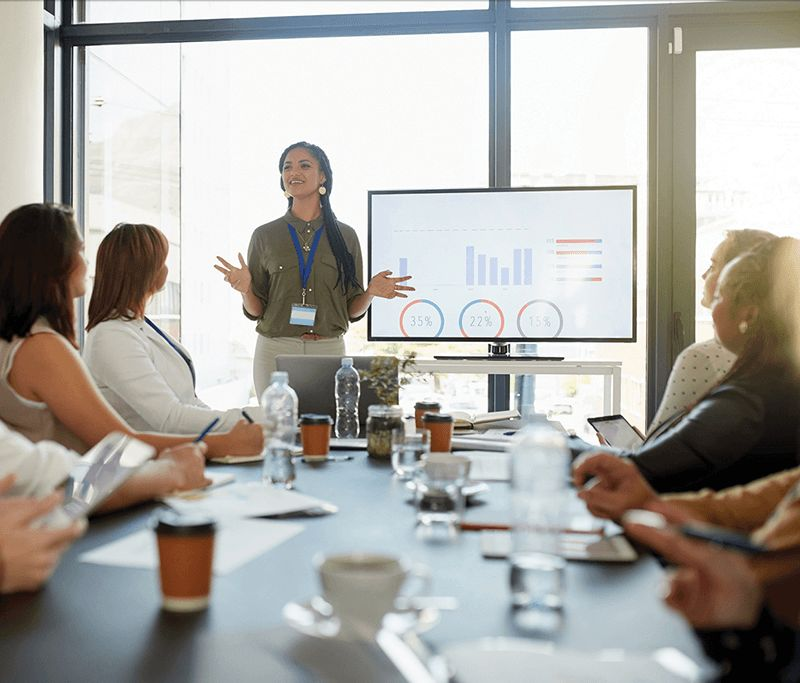
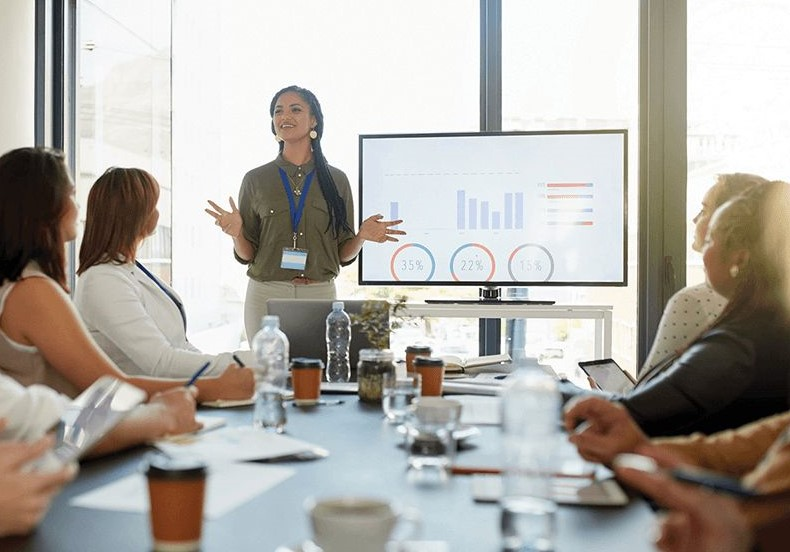
updated story board, cropped images, styling

diff --git a/public/scripts/storyBoard.js b/public/scripts/storyBoard.js
@@ -17,7 +17,7 @@ const levels = {
       ["level4-2-background1.jpg", "placeholder", "placeholder"],
     ],
     [
-      ["level5-1-background1.jpg", "placeholder", "placeholder"],
+      ["level5-1-background11.jpg", "placeholder", "placeholder"],
       ["level5-2-background1.jpg", "placeholder", "placeholder"],
     ],
   ],
@@ -25,8 +25,8 @@ const levels = {
   descriptions: [
     [
       "Being in an essential job, you must go to work today.",
-      "Who’s that? It’s grandma! Hello! she calls out to you. What do you do?",
-      "It’s the morning rush and there’s suddenly tons of people.",
+      "Who’s that? It’s grandma! \"Hello!\" she calls out to you. What do you do?",
+      "It’s the morning rush and there are suddenly tons of people.",
     ],
     [
       "You’ve made it to work. Now you have to gracefully and safely navigate your way to your desk.", 
@@ -34,19 +34,19 @@ const levels = {
       "The hallway is crowded with fellow coworkers all chatting about their weekend. They call you over to talk with them."
     ],
     [
-      "You’ve made it to your desk at work. You now must go about your daily work activities.", 
-      "It’s time for lunch. You realize you forgot to pack your lunch for work. This will be difficult getting food, as well as avoiding people at the same time. If you don’t eat your health will suffer.", 
-      "You have a planned team meeting after lunch. You know you will be stuck in an hour long conversation with your coworkers because of this meeting."
+      "You finally made it to your desk. Now for the day's work activities.", 
+      "It’s time for lunch and you realize you left your lunch on the kitchen table at home. This will be difficult getting food, as well as avoiding people at the same time. If you don’t eat your health will suffer.", 
+      "You have a planned team meeting after lunch. For an hour. In a small conference room."
     ],
     [
-      "After work you decide to jog through the park for exercise, but the park is more crowded than you expected.", 
-      "There are a ton of people at the park!  There a particularly large group of people are walking in your direction taking up the entire path.", 
-      "You run into a higher level manager from your company who is also at the park and they mention an upcoming work retreat you hadn’t heard about until now.  They mention that this will involve a trip on a crowded bus with your other coworkers.  They want to know if you will attend and imply that there may be consequences if you do not."
+      "After work you decide to jog through the park to exercise and clear your head.", 
+      "There are a ton of people at the park!  A particularly large group of people are walking in your direction taking up the entire path.", 
+      "You run into your boss, also going for a run, who mentions an upcoming work retreat.  They say the bus is booked and laugh about \"social distancing\" on a bus.  And you'll be coming, right? They imply consequences if you do not."
     ],
     [
       "What a day! Thankfully, it's almost at an end. You've managed to avoid the pandemic so far...", 
-      "It’s time to decide for food! Attempt to cook at home, which you haven’t done since 1999 or try to order in food like you normally do. You  could also phone a friend and invite them over to assist with the cooking (and hope to learn something too!), but that carries some risk for both you and your friend.", 
-      "You’ve been working from home for the last few weeks and your roommate was just put on work from home today. Turns out your roommate is sick, has a high fever, chills, basically the works."
+      "It’s time to decide for dinner! Do you take this opportunity to attempt to cook at home, which you haven’t done since 1999 or order in like you normally do? You could also phone a kitchen-saavy friend and cook together.", 
+      "After dinner your roommate comes home and doesn't look too good.Turns out your roommate is sick, has a high fever, chills, basically the works."
     ],
   ],
 
@@ -55,7 +55,7 @@ const levels = {
       [
         "Turn off on a side street.",
         "Smile, wave and walk faster.",
-        "Give her a quick hug, explain (again) what’s going on and how important social distancing is.",
+        "Give her a quick hug and explain (again) what’s going on and how important social distancing is.",
       ],
       ["Go to the coffee shop.", "Go down a side street.", "Grab a newspaper."],
     ],
@@ -78,20 +78,20 @@ const levels = {
         "Skip lunch."
       ],
       [
-        "Say you got food poisoning from lunch, leave work early.", 
-        "Go to the meeting, you know how important it is to be there.", 
-        "Hide for an hour after lunch and lie and say you had to help someone in another department."
+        "Say you got food poisoning from lunch and leave work early.", 
+        "Be a team player and go to the important meeting.", 
+        "Hide for an hour after lunch and say you had to help someone in another department."
       ],
     ],
     [
       [
         "Jog to your left beside a nearby lake while trying to maintain a safe distance.", 
         "Slow down and walk to your right through a more wooded area.", 
-        "Walk past the group on the grass without jogging."
+        "Walk through the group on the sidewalk."
       ],
       [
-        "Let them know that you will be going.", 
-        "Tell them you would like to attend, but cannot because you are worried about the health aspects of the trip.", 
+        "Tell they, yes, you'll be there.", 
+        "You'd like to be there, but cannot because you are worried about the health aspects of the trip.", 
         "Make up a quick excuse about needing to attend your sister's wedding at the same date."
       ],
     ],
@@ -102,9 +102,9 @@ const levels = {
         "Order in food."
       ],
       [
+        "Sick again? Live and let live, you always say.",
         "Pack your bags and stay with your family.", 
         "Help your roommate self-quarentine.", 
-        "Sick again? Live and let live, you always say."
       ],
     ],
   ],
@@ -115,18 +115,30 @@ const levels = {
       "Grandma smiles and waves back. Good job avoiding social interaction but also keeping grandma happy.",
       "Grandma squeezes tightly. You feel so loved and also a little germy.",
       ],
-      ["You grab a cup of coffee. Yum, just like you like it. It fuels you with caffeine and a few germs. ", "You quickly turn off onto the side street. Better to just avoid everything and get to work. But in your rushed attempt to escape people, you accidentally bump into a coworker and spill their coffee all over them! Yikes.", "The pandemic is spreading. New cases are popping up everywhere. You feel a little germy from handling a paper that’s been carried around all morning. "],
+      [
+        "You grab a cup of coffee. Yum, just like you like it. It fuels you with caffeine and a few germs.", 
+        "You quickly turn off onto the side street. Better to just avoid everything and get to work. But in your rushed attempt to escape people, you accidentally bump into a coworker and spill their coffee all over them! Yikes.", 
+        "The pandemic is spreading. New cases are popping up everywhere. You feel a little germy from handling a paper that’s been carried around all morning. "
+      ],
     ],[
-      ["Awkwardly laugh about the “new version” of the handshake taking the corporate world by storm.", "She's got a firm grip, but did she wash her hands in the last two minutes?", "She has a big ego and doesn’t like being told what to do by her employee."],
-      ["They try to get closer and you tell them about the 6’ rule. ", "They think you’re weird and everyone stares at you, but at least you don’t have their germs. ", "One of your coworkers accidentally sneezes while you’re all huddled together."],
+      [
+        "Awkwardly laugh about the “new version” of the handshake taking the corporate world by storm.", 
+        "She's got a firm grip, but did she wash her hands in the last two minutes?", 
+        "She has a big ego and doesn’t like being told what to do by her employee."
+      ],
+      [
+        "They try to get closer and you tell them about the 6’ rule.", 
+        "They think you’re weird and everyone stares at you, but at least you don’t have their germs.", 
+        "One of your coworkers accidentally sneezes while you’re all huddled together."
+      ],
     ], [
       [
-        "You get your food and realize that you won’t be able to avoid sitting with your coworkers for lunch. You eat lunch your lunch while having a conversation with your coworkers.", 
-        "The delivery driver did not say a word to you. You avoid all social interaction while getting your food and eat your food by yourself.", 
+        "You get your food and realize that you won’t be able to avoid sitting with your coworkers for lunch. You eat and talk together.", 
+        "The delivery driver did not say a word to you. You avoided all social interaction while getting your food and eat your food by yourself.", 
         "You did not eat anything for lunch."
       ],
       [
-        "You avoid the meeting, however in doing so you have to go home. On your way home you remember you have a lot of family staying over your house. You have to socialize and you missed out on your work meeting. ", 
+        "You avoid the meeting by leaving work. Another coworked with the same idea stops you in the parking lot and corners you. After several minutes of complaining and sneezing in your general direction you leave without saying anything else.", 
         "You go to the meeting and realize that it will just be a zoom presentation. You sit as far as possible from the nearest coworker and avoid most social interaction.", 
         "You sit in your car for an hour while everyone is in the meeting. You avoid social interaction, but miss out on crucial team information. "
       ],
@@ -134,7 +146,7 @@ const levels = {
       [
         "You jog too close to the edge, trip, and nearly fall in the pond.  A few people come to your aide, while a few others on the path look onwards and laugh.", 
         "You take a brief relaxing walk through the woods out of view of others, but end up not getting as much exercise as you would have liked and you feel a bit lonely.", 
-        "Most of the people are too busy talking amongst themselves to notice you."
+        "Most of the people are too busy talking amongst themselves to notice you. And they're way too close for comfort."
       ],
       [
         "Thinking about the long crowded bus trip ahead worries you quite a bit.", 
@@ -148,9 +160,9 @@ const levels = {
         "You decide to stick with that status quo, ordering your food. Your decision helps keep restaurant and delivery employees working, but being overly exposed to food cooked by so many different people has left you exposed."
       ],
       [
-        "You didn’t escape fast enough, your second night at your family’s house you come down with the same symptoms. Now your roommate thinks you ditched them and your family is all sick.", 
-        "Set up a meal and medicine drop at designated hours so you avoid any exposure to your roommate. Your roommate appreciates your rapid suggestion and helping them quarantine, you also avoided getting sick.", 
-        "Your roommate wasn't faking it. You've gotten the virus and now you're both sick."
+        "Your roommate wasn't faking it. You've gotten the virus and now you're both sick.",
+        "You didn’t escape fast enough and you've come down with the same symptoms. Now your roommate thinks you ditched them and your family is all sick.", 
+        "You set up a meal and medicine drop for your roommate and disinfect the eintire place. Your roommate is appreciative and you avoided getting sick."
       ],
     ]
   ],
@@ -206,9 +218,9 @@ const levels = {
         [30, -15],
       ],
       [
+        [-25, -75],
         [-50, -75],
         [25, 15],
-        [-25, -75],
       ],
     ]
   ],

diff --git a/public/scripts/gamePlay.js b/public/scripts/gamePlay.js
@@ -2,7 +2,7 @@
 let health = 50;
 let social = 50;
 let level = 0;
-let sublevel = 0;
+let sublevel = -1; // start at main level with no sublevel
 
 // update aria-valuenow with health and social
 $("#health_points").text(`${health} / 100`);
@@ -14,14 +14,26 @@ $("#progress-bar__social")
   .attr("aria-valuenow", social)
   .css({ width: `${social}%` });
 
-// add continue button
+
+// add continue button (after playing a sublevel)
 let continueBtn = $("<button>Continue</button>");
 continueBtn.attr({ id: "continue", type: "button" });
-continueBtn.addClass("btn btn__choice btn-lg btn-block");
+continueBtn.addClass("btn btn__next btn-lg btn-block");
 continueBtn.click(() => {
   playGame(level, health, social, sublevel);
 });
 $(".grid__choices").append(continueBtn);
+
+
+// add play level button (to start a sublevel)
+let playBtn = $(`<button>Start level ${level+1}</button>`);
+playBtn.attr({ id: "play", type: "button" });
+playBtn.addClass("btn btn__play btn-lg btn-block");
+playBtn.click(() => {
+  sublevel++;
+  playGame(level, health, social, sublevel);
+});
+$(".grid__description").append(playBtn);
 
 // user chooses one
 for (let choiceIndex = 0; choiceIndex < 3; choiceIndex++) {
@@ -41,15 +53,54 @@ for (let choiceIndex = 0; choiceIndex < 3; choiceIndex++) {
       .attr("aria-valuenow", social)
       .css({ width: `${social}%` });
 
+    // update health and social points colors
+    if(health < 25) {
+      $("#progress-bar__health").removeClass("progress-bar--normal");
+      $("#progress-bar__health").addClass("progress-bar--danger");
+    }
+    else {
+      $("#progress-bar__health").addClass("progress-bar--normal");
+      $("#progress-bar__health").removeClass("progress-bar--danger"); 
+    }
+    if(social < 25) {
+      $("#progress-bar__social").removeClass("progress-bar--normal");
+      $("#progress-bar__social").addClass("progress-bar--danger");
+    }
+    else {
+      $("#progress-bar__social").addClass("progress-bar--normal");
+      $("#progress-bar__social").removeClass("progress-bar--danger"); 
+    }
+
     // show desc of choice
-    $("#description").text(levels.choiceAnswers[level][subleve][choiceIndex]);
+    // also show affect of choice on social and health points
+    let text = `${levels.choiceAnswers[level][sublevel][choiceIndex]}<br><br>`;
+    if (socialModifier < 0) {
+      text += socialModifier + " social points and ";
+    }
+    else if (socialModifier > 0) {
+      text += `+` + socialModifier + " social points and ";
+    }
+    else {
+      text += socialModifier + " social points and ";
+    }
+    if (healthModifier < 0) {
+      text += healthModifier + " health points";
+    }
+    else if (healthModifier > 0) {
+      text += `+` + healthModifier + " health points";
+    }
+    else {
+      text += healthModifier + " health points";
+    }
+    $("#description").html(text);
 
     // update level/sublevel
     if (sublevel < 1) {
       sublevel++;
     } else {
-      sublevel = 0;
+      sublevel = -1;
       level++;
+      playBtn.html(`Start level ${level+1}`);
     }
 
     // hide choice buttons, show continue button
@@ -61,23 +112,31 @@ for (let choiceIndex = 0; choiceIndex < 3; choiceIndex++) {
 playGame(level, health, social, sublevel);
 
 function playGame(level, health, social, sublevel) {
-  $(".btn__choice").show();
   $("#continue").hide();
+  $(".btn__choice").hide();
+  $('#play').hide();
 
   // play game
-  if (health != 0 && social != 0 && level <= 4) {
-    // show image
-    $("#main_img").attr("src", `images/${levels.images[level][sublevel][0]}`);
+  if (health > 0 && social > 0 && level <= 4) {
+    // if start of level, show desc only with no choices
+    if (sublevel == -1) {
+      $("#main_img").attr("src", `images/${levels.images[level][0][0]}`);
+      $("#description").text(levels.descriptions[level][0]);
+      $('#play').show();
+    }
 
-    // show desc
-    $("#description").text(levels.descriptions[level][sublevel]);
+    // if on sublevel, show desc and choices
+    else {
+      $(".btn__choice").show();
+      $("#main_img").attr("src", `images/${levels.images[level][sublevel][0]}`);
+      $("#description").text(levels.descriptions[level][sublevel+1]);
+      $("#choice1").text(levels.choices[level][sublevel][0]);
+      $("#choice2").text(levels.choices[level][sublevel][1]);
+      $("#choice3").text(levels.choices[level][sublevel][2]);      
+    }
 
-    // show choices
-    $("#choice1").text(levels.choices[level][sublevel][0]);
-    $("#choice2").text(levels.choices[level][sublevel][1]);
-    $("#choice3").text(levels.choices[level][sublevel][2]);
   }
   else {
-      alert("Game finished!");
+    alert("Game finished!");
   }
 }

diff --git a/views/pages/index.html b/views/pages/index.html
@@ -24,7 +24,6 @@
       <div class="container">
         <div class="grid__header">
           <h1>Avoidance: The Game</h1>
-          <!-- <a class="icon__home" href="/"><span class="fas fa fa-home"></span></a>  -->
           <a class="icon__home" href="/"><span class="fa fas fa-sign-out"></span></a>
         </div>
 
@@ -32,7 +31,7 @@
           <p class="font--left">Social points</p>
           <p id="social_points" class="font--right">25 / 100</p>
           <div id="progress__social" class="progress">
-            <div id="progress-bar__social" class="progress-bar" role="progressbar" style="width: 25%;" aria-valuenow="25" aria-valuemin="0" aria-valuemax="100"></div>
+            <div id="progress-bar__social" class="progress-bar--normal" role="progressbar" style="width: 25%;" aria-valuenow="25" aria-valuemin="0" aria-valuemax="100"></div>
           </div>
         </div>
 
@@ -40,7 +39,7 @@
           <p class="font--left">Health points</p>
           <p id="health_points" class="font--right">25 / 100</p>
           <div id="progress__health" class="progress">
-            <div id="progress-bar__health" class="progress-bar" role="progressbar" style="width: 25%;" aria-valuenow="25" aria-valuemin="0" aria-valuemax="100"></div>
+            <div id="progress-bar__health" class="progress-bar--normal" role="progressbar" style="width: 25%;" aria-valuenow="25" aria-valuemin="0" aria-valuemax="100"></div>
           </div>
         </div>
 

diff --git a/public/styles/styles.css b/public/styles/styles.css
@@ -92,7 +92,7 @@ body, html{
 .container {
   display: grid;
   grid-template-columns: 1fr 1fr 1fr;
-  grid-template-rows: 60px 200px auto 100px;
+  grid-template-rows: 60px 250px auto 100px;
   grid-template-areas: 
       "header header header"
       "image image description"
@@ -176,15 +176,33 @@ img{
   height: 28px;
 }
 
-#progress-bar__social, #progress-bar__health{
+.progress-bar--normal {
   background-color: #82D7CF;
 }
+.progress-bar--danger{
+  background-color: #F65454;
+  -webkit-animation-name: flash .3s 4;
+  animation: flash .3s 4;
+}
 
-.grid__choices > .btn__choice, .grid__choices > .btn__next {
+@-webkit-keyframes flash {
+  from { background-color: #F65454; }
+  to { background-color: #8a0f1e; }
+}
+
+
+.grid__choices > .btn__choice, .grid__choices > .btn__next, .grid__description > .btn__play{
   background-color: #82D7CF;
   font-size: 16px;
-  text-align: left;
   box-shadow: 0 3px 0 0 #25746c;
+}
+
+.grid__choices > .btn__choice{
+  text-align: left;
+}
+
+.grid__choices > .btn__next, .grid__description > .btn__play{
+  text-align: center;
 }
 
 /* fonts */
@@ -203,7 +221,8 @@ h1{
 }
 
 .fas {
-  color: #25746c;
+  /* color: #25746c; */
+  color: #82D7CF;
   font-size: 30px;
 }
 .icon__home{
